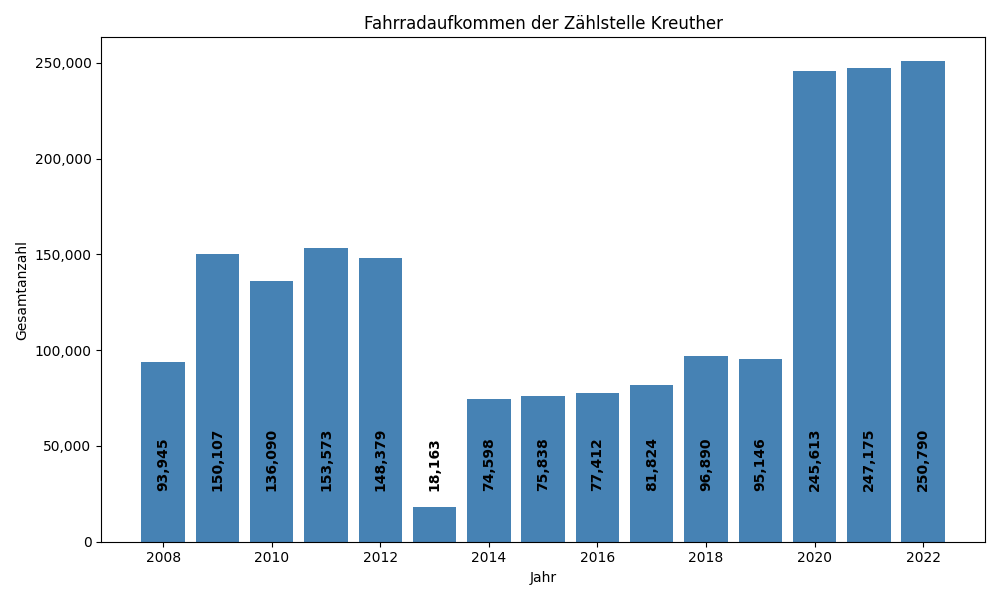
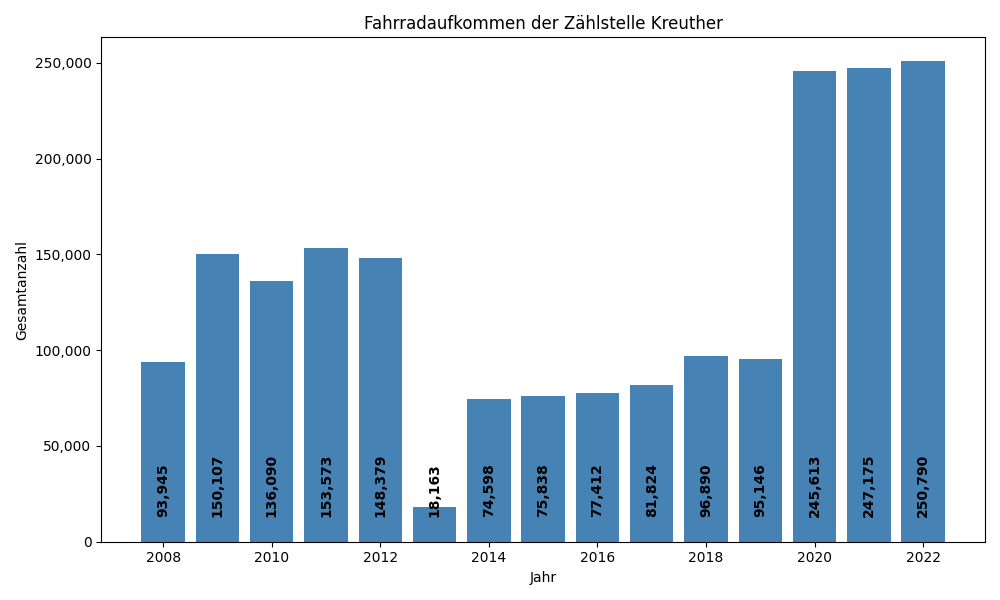
add png for 3-3

diff --git a/exec_3-3.py b/exec_3-3.py
@@ -66,7 +66,7 @@ for zaehlstelle in summary_data["zaehlstelle"].unique():
     ylim_bottom, ylim_top = plt.gca().get_ylim()
 
     # Feste Y-Position für die Zahlen in den Balken
-    fixed_y_position = ylim_bottom + (ylim_top - ylim_bottom) * 0.1  # 10% vom unteren Rand der y-Achse
+    fixed_y_position = ylim_bottom + (ylim_top - ylim_bottom) * 0.05  # 5% vom unteren Rand der y-Achse
 
     # Werte in den Balken anzeigen (auf gleicher Höhe)
     for bar in bars:
